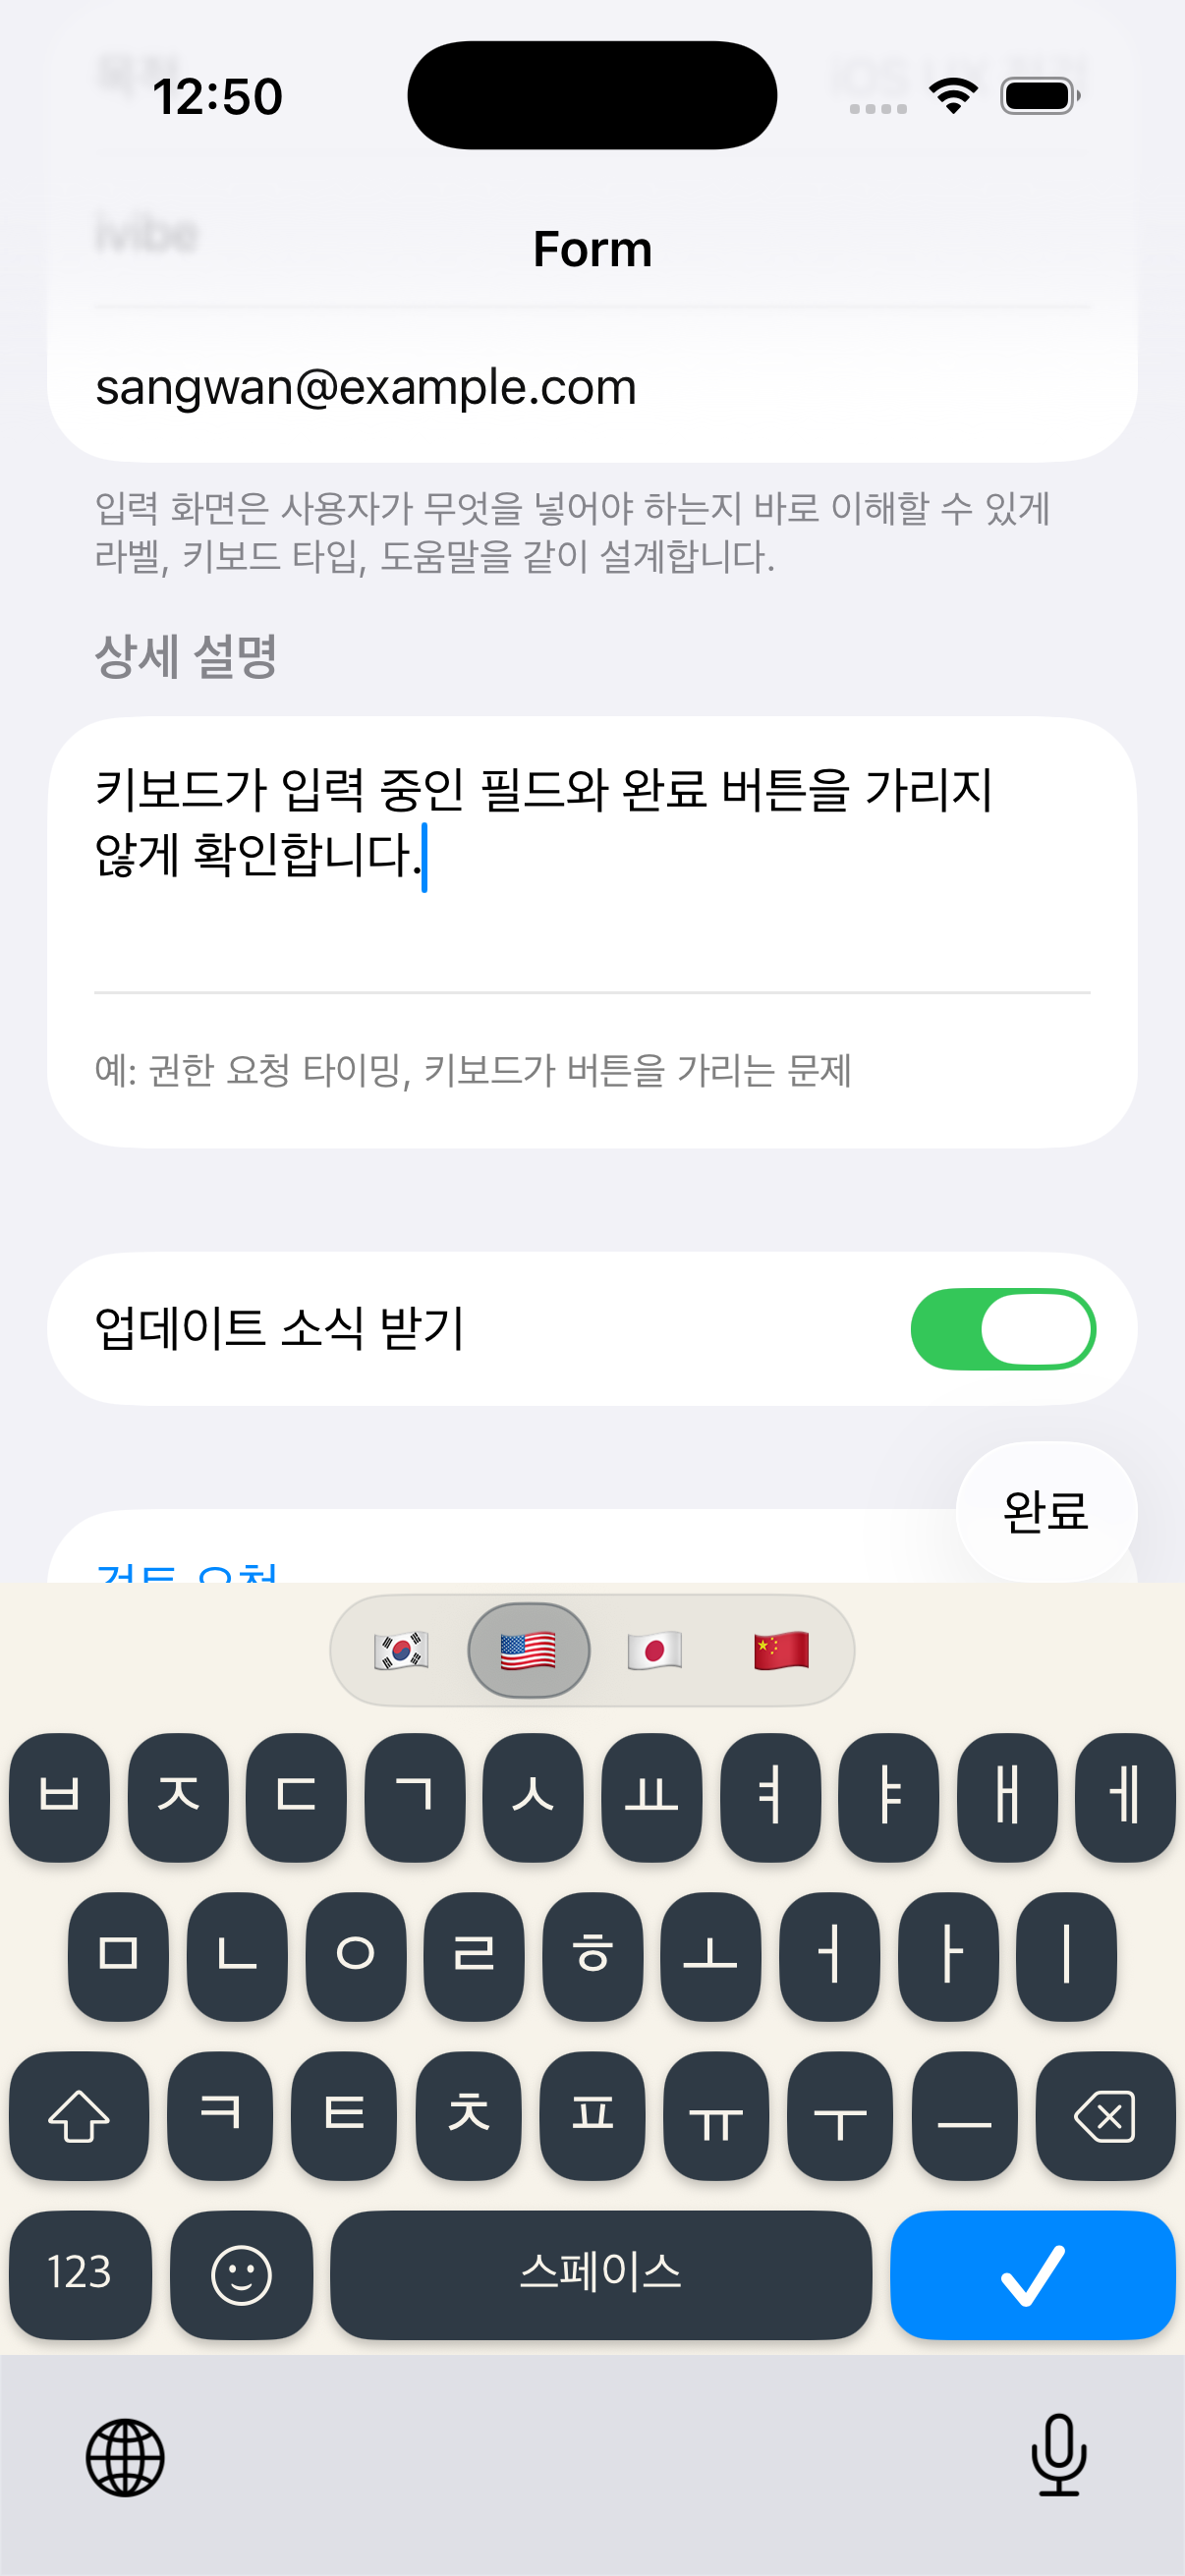
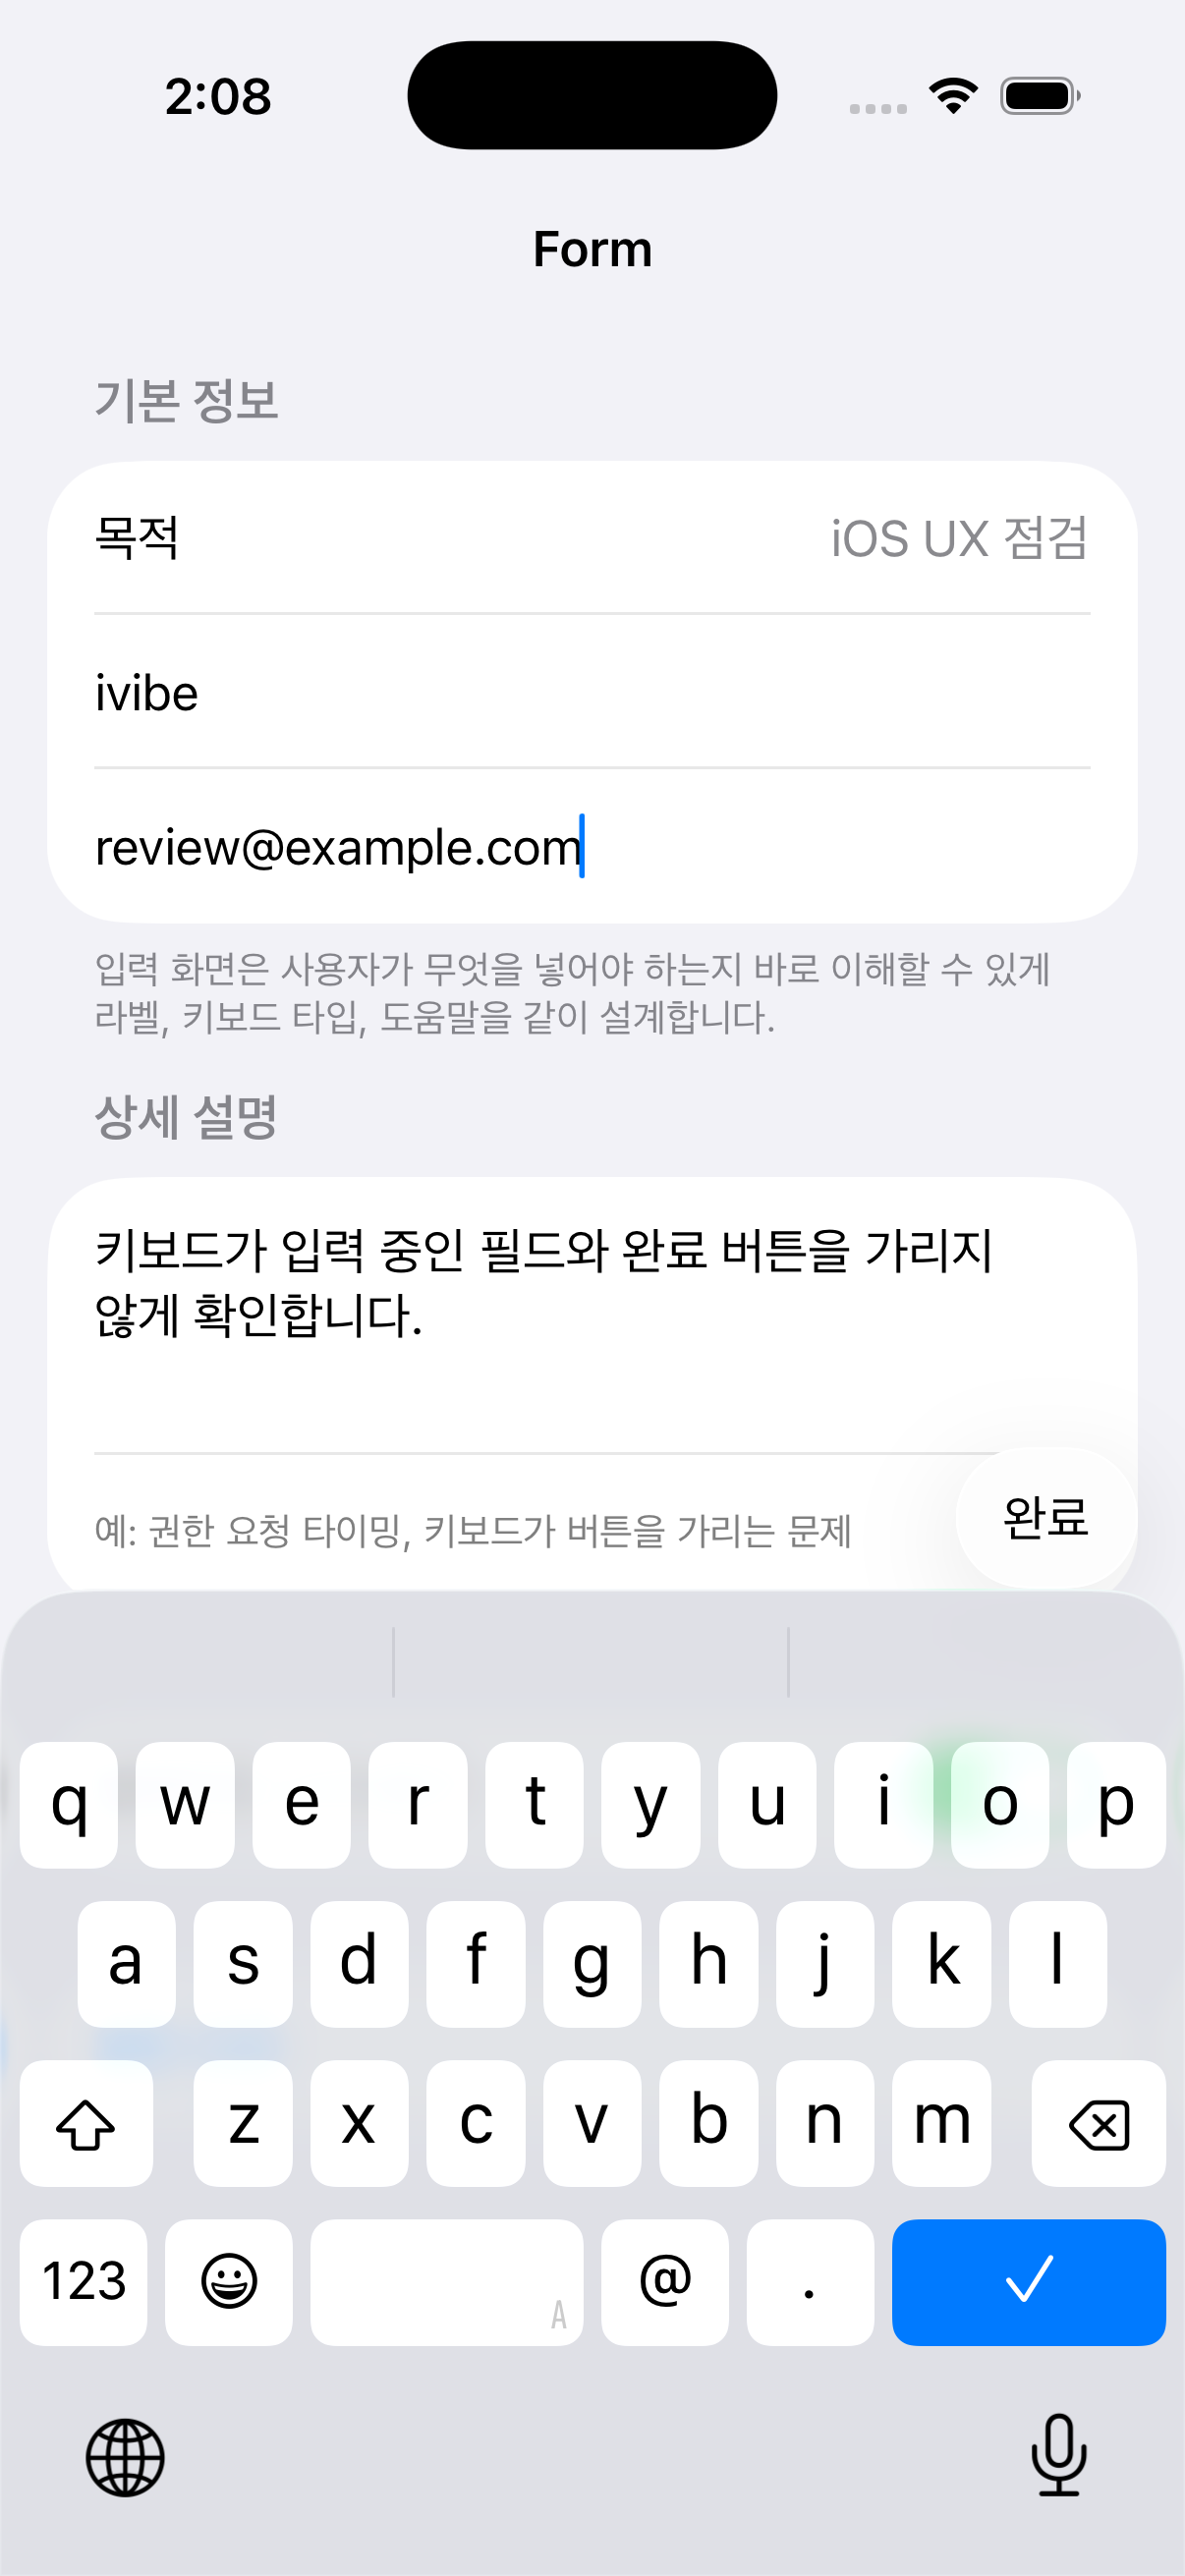
fix: recapture default iOS keyboard screenshot

diff --git a/ios/ivibe/RootView.swift b/ios/ivibe/RootView.swift
@@ -277,6 +277,7 @@ struct FormLessonScreen: View {
     @FocusState private var focusedField: Field?
 
     enum Field: Hashable {
+        case email
         case message
     }
 
@@ -290,6 +291,8 @@ struct FormLessonScreen: View {
                     .textInputAutocapitalization(.never)
                     .keyboardType(.emailAddress)
                     .textContentType(.emailAddress)
+                    .focused($focusedField, equals: .email)
+                    .submitLabel(.done)
 
                 if mode == .validation {
                     Label("올바른 이메일 주소를 입력해 주세요.", systemImage: "exclamationmark.circle.fill")
@@ -345,9 +348,10 @@ struct FormLessonScreen: View {
         }
         .onAppear {
             if mode == .keyboard {
+                email = "[email redacted]"
                 message = "키보드가 입력 중인 필드와 완료 버튼을 가리지 않게 확인합니다."
-                DispatchQueue.main.asyncAfter(deadline: .now() + 0.65) {
-                    focusedField = .message
+                DispatchQueue.main.asyncAfter(deadline: .now() + 0.9) {
+                    focusedField = .email
                 }
             } else if mode == .validation {
                 appName = ""

diff --git a/generate_ios_project.rb b/generate_ios_project.rb
@@ -26,6 +26,7 @@ app_target.build_configurations.each do |config|
   config.build_settings['INFOPLIST_KEY_CFBundleDisplayName'] = 'ivibe'
   config.build_settings['INFOPLIST_KEY_NSCameraUsageDescription'] = '사진 리뷰 기능에서 iOS UX 문제를 촬영해 확인하기 위해 카메라 접근이 필요합니다.'
   config.build_settings['INFOPLIST_KEY_UILaunchScreen_Generation'] = 'YES'
+  config.build_settings['INFOPLIST_KEY_UISupportedInterfaceOrientations'] = 'UIInterfaceOrientationPortrait'
   config.build_settings['GENERATE_INFOPLIST_FILE'] = 'YES'
   config.build_settings['IPHONEOS_DEPLOYMENT_TARGET'] = '26.0'
   config.build_settings['SWIFT_VERSION'] = '5.0'